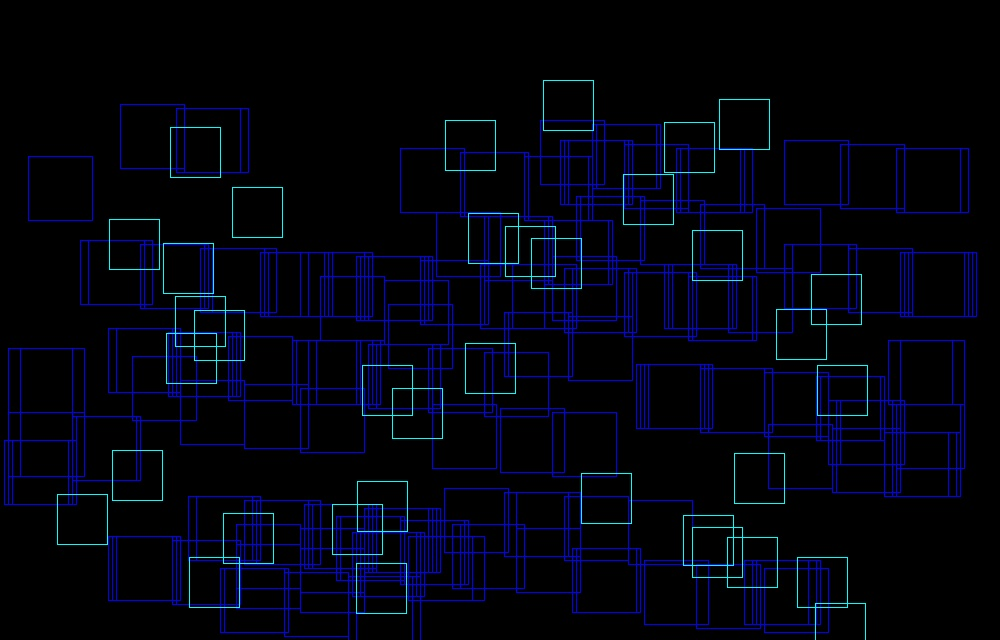
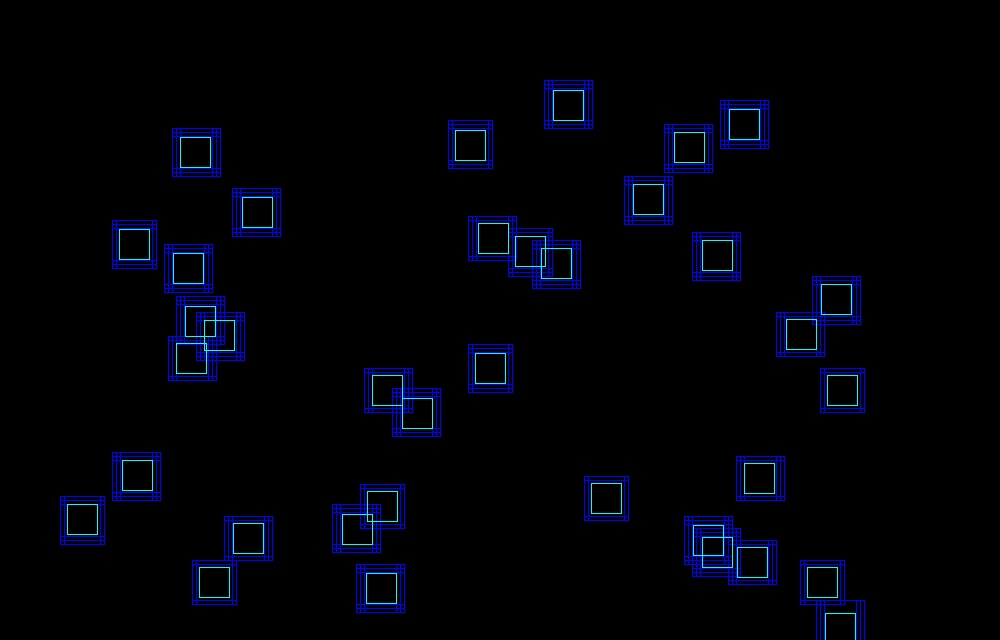
解决了anchor生成有误的问题

Changed region(s): [[0.0, 0.125, 0.992, 1.0], [0.0, 0.25, 0.031, 0.3438], [0.372, 0.25, 0.403, 0.3125]]

diff --git a/detectors/datasets/XFrameDataset.py b/detectors/datasets/XFrameDataset.py
@@ -140,10 +140,10 @@ class XFrameDataset(VisionDataset):
                     x, y = self.base.get_worldgrid_from_pos(single_pedestrian['positionID'])
                     frame_wxy.append([x / self.grid_reduce, y / self.grid_reduce])
 
-                    ymin_od, xmin_od, ymax_od, xmax_od = max(min(int(y - 25), self.img_shape[0] - 1), 0),\
-                                                         max(min(int(x - 25), self.img_shape[1] - 1), 0),\
-                                                         max(min(int(y + 25), self.img_shape[0] - 1), 0),\
-                                                         max(min(int(x + 25), self.img_shape[1] - 1), 0)
+                    ymin_od, xmin_od, ymax_od, xmax_od = max(min(int(y - 15), self.img_shape[0] - 1), 0),\
+                                                         max(min(int(x - 15), self.img_shape[1] - 1), 0),\
+                                                         max(min(int(y + 15), self.img_shape[0] - 1), 0),\
+                                                         max(min(int(x + 15), self.img_shape[1] - 1), 0)
                     frame_bbox_od.append([ymin_od, xmin_od, ymax_od, xmax_od])
 
                     frame_cls.append([0])

diff --git a/detectors/models/utils/creator_tool.py b/detectors/models/utils/creator_tool.py
@@ -457,7 +457,7 @@ class AnchorTargetCreator(object):
     """
 
     def __init__(self,
-                 n_sample=256,
+                 n_sample=512,
                  pos_iou_thresh=0.8, neg_iou_thresh=0.3,
                  pos_ratio=0.8):
         self.n_sample = n_sample
@@ -506,7 +506,6 @@ class AnchorTargetCreator(object):
 
         inside_index = _get_inside_index(anchor, img_H, img_W)
         anchor = anchor[inside_index]
-
         argmax_ious, label = self._create_label(
             inside_index, anchor, bbox)
 
@@ -523,9 +522,9 @@ class AnchorTargetCreator(object):
         tmp = cv2.cvtColor(tmp, cv2.COLOR_GRAY2BGR)
         # cv2.imwrite("/home/dzc/Desktop/CASIA/proj/mvRPN-det/anchorBase.jpg", tmp)
         # print(anchor)
-
+        print(len(label[inside_index]), len(anchor))
         for idx, anc in enumerate(anchor):
-            if label[idx] == 1:
+            if label[inside_index][idx] == 1:
                 cv2.rectangle(tmp, (int(anc[1]), int(anc[0])), (int(anc[3]), int(anc[2])), color=(255, 0, 0))
 
         for idx, bbx in enumerate(bbox):

diff --git a/detectors/models/region_proposal_network.py b/detectors/models/region_proposal_network.py
@@ -58,14 +58,14 @@ class RegionProposalNetwork(nn.Module):
 
         n_anchor = anchor.shape[0] // (hh * ww)
         # print("n_anchor", n_anchor)
-        # a = np.zeros((img_size[0], img_size[1]))
-        # img = np.uint8(a)
-        # img = cv2.cvtColor(img, cv2.COLOR_GRAY2BGR)
-        #
-        # for anchors in anchor:
-        #     y1, x1, y2, x2 = anchors
-        #     cv2.rectangle(img, (int(x2), int(y2)),(int(x1), int(y1)), color=(255, 255, 0))
-        # cv2.imwrite("/home/dzc/Desktop/CASIA/proj/mvRPN-det/results/images/anchor.jpg", img)
+        a = np.zeros((img_size[0], img_size[1]))
+        img = np.uint8(a)
+        img = cv2.cvtColor(img, cv2.COLOR_GRAY2BGR)
+
+        for anchors in anchor:
+            y1, x1, y2, x2 = anchors
+            cv2.rectangle(img, (int(x2), int(y2)),(int(x1), int(y1)), color=(255, 255, 0))
+        cv2.imwrite("/home/dzc/Desktop/CASIA/proj/mvRPN-det/results/images/anchor.jpg", img)
 
         h = F.relu(self.conv1(x))
         rpn_locs = self.loc(h)

diff --git a/detectors/models/persp_trans_detector.py b/detectors/models/persp_trans_detector.py
@@ -50,7 +50,7 @@ class PerspTransDetector(nn.Module):
                               for cam in range(self.num_cam)]
 
         self.backbone = nn.Sequential(*list(resnet18(pretrained=True, replace_stride_with_dilation=[False, False, False]).children())[:-2]).to('cuda:0')
-        self.rpn = RegionProposalNetwork(in_channels=3074, mid_channels=3074, ratios=[1], anchor_scales=[4 * (4 / (Const.reduce))]).to('cuda:1')
+        self.rpn = RegionProposalNetwork(in_channels=3074, mid_channels=3074, ratios=[1], anchor_scales=[2.5 * (4 / (Const.reduce))]).to('cuda:1')
         # my_cls = nn.Sequential(nn.Linear(25088, 2048, bias=True),
         #                        nn.ReLU(inplace=True),
         #                        nn.Dropout(p=0.5, inplace=False),
